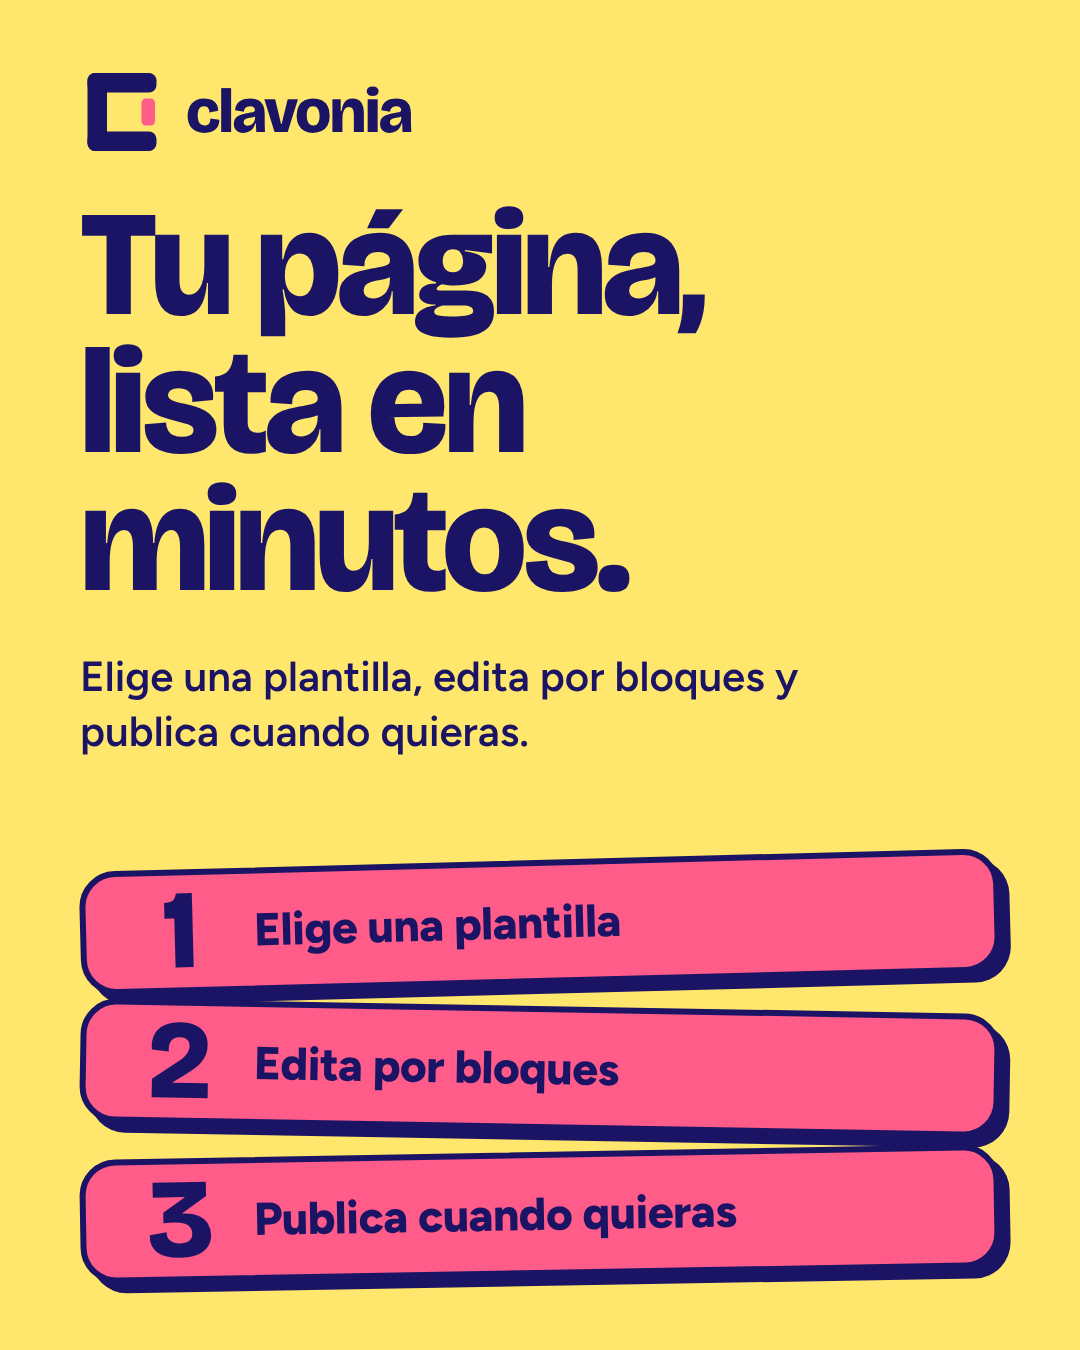
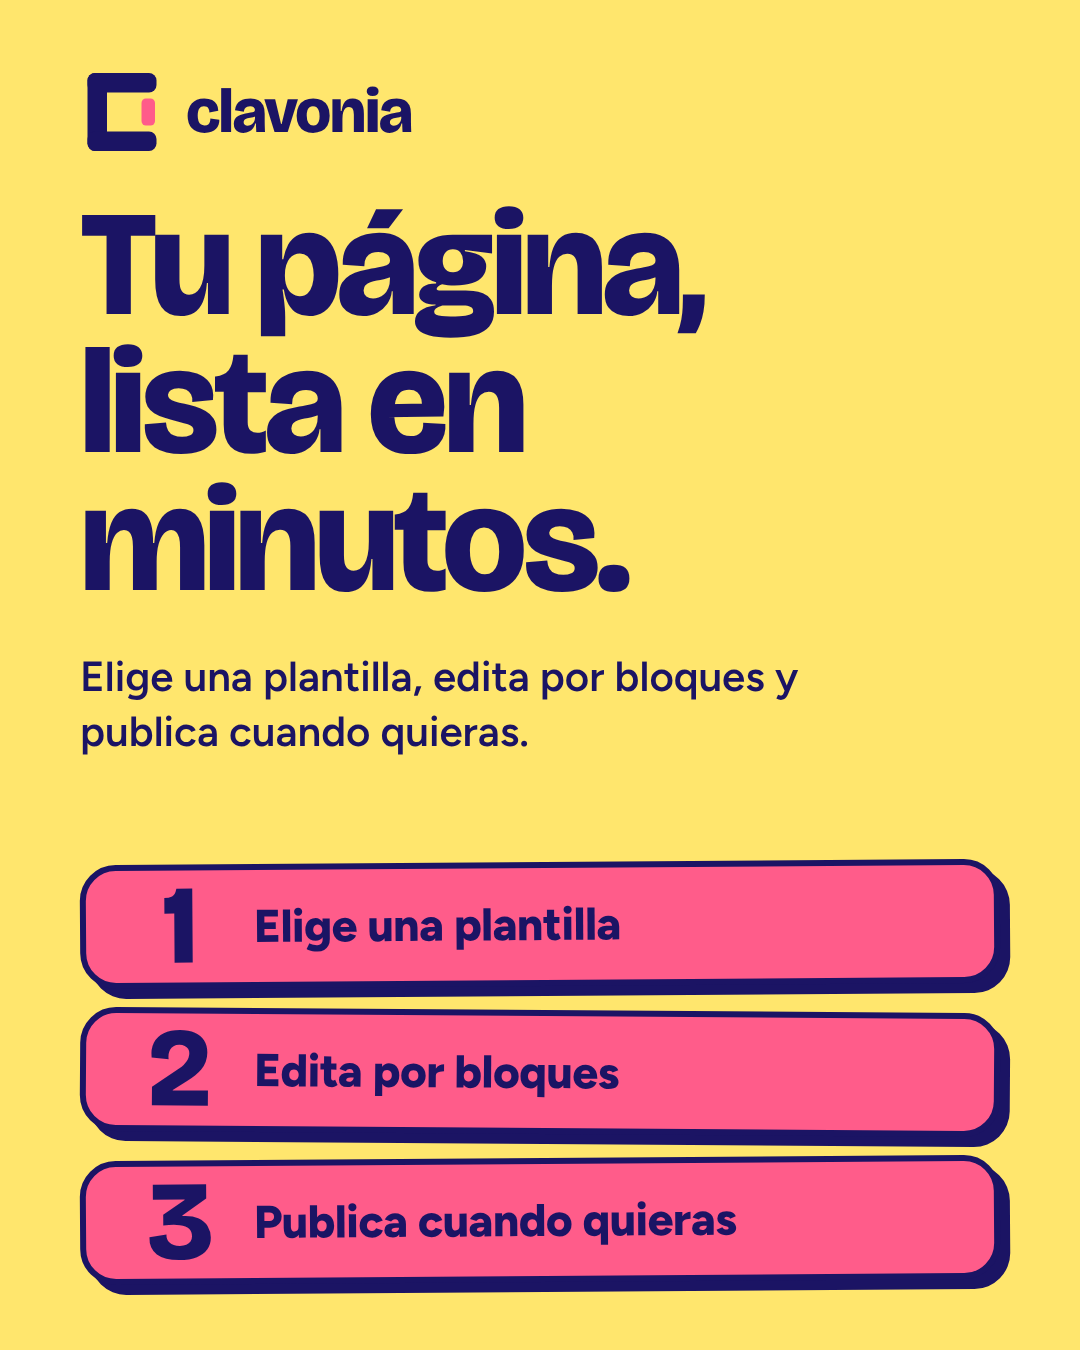
Add stickers-pop brand variant and finish papel-y-trazo files
Stickers variant with thick outlines, two-tone blocks and numbered steps,
using Bricolage Grotesque and Figtree: eight social pieces with HTML
sources, PNGs and README. Also includes the remaining papel-y-trazo files.

Claude-Session: https://claude.ai/code/session_013XA8P2WAmpXZJM5TfkydHJ

Changed region(s): [[0.0611, 0.6222, 0.9472, 0.9644], [0.0611, 0.6533, 0.0917, 0.6844]]

diff --git a/clavonia/brand/variants/papel-y-trazo/instagram-square-1080x1080.html b/clavonia/brand/variants/papel-y-trazo/instagram-square-1080x1080.html
@@ -13,8 +13,8 @@ body{background:#A7C4B5;width:1080px;height:1080px;overflow:hidden}
 .a{position:absolute}
 .grain{position:absolute;left:0;top:0;width:1080px;height:1080px;opacity:.09;mix-blend-mode:multiply;pointer-events:none;z-index:60}
 .hand{font-family:'Caveat',cursive;font-weight:700;color:#1D2B24}
-.ring{position:relative;display:inline-block;white-space:nowrap;padding:0 .14em}
-.ringsvg{position:absolute;left:-2%;top:-6%;width:104%;height:116%;overflow:visible}
+.ring{position:relative;display:inline-block;white-space:nowrap;padding:0 .24em}
+.ringsvg{position:absolute;left:-4%;top:-8%;width:108%;height:120%;overflow:visible}
 .lock{display:flex;align-items:center;gap:.2em;font-weight:700;letter-spacing:-.02em;line-height:1}
 .mk{display:block}
 h1{font-weight:800;letter-spacing:-.04em;line-height:1;white-space:nowrap}
@@ -35,9 +35,9 @@ h1{font-weight:800;letter-spacing:-.04em;line-height:1;white-space:nowrap}
 
   <h1 class="a" style="left:80px;top:236px;font-size:136px">Tu página,<br>lista en<br><span class="hand ring" style="font-size:1.25em;letter-spacing:0;line-height:1.1">minutos.<svg class="ringsvg" viewBox="0 0 600 200" preserveAspectRatio="none" aria-hidden="true"><path d="M30 104C20 40 150 16 300 18C450 20 590 46 578 104C566 166 430 186 290 182C150 178 16 160 28 98C34 60 110 34 230 26" fill="none" stroke="#1D2B24" stroke-width="5" stroke-linecap="round" vector-effect="non-scaling-stroke"/></svg></span></h1>
 
-  <p class="a" style="left:80px;top:700px;width:860px;font-size:40px;line-height:1.36">Elige una plantilla, edita por bloques y publica cuando quieras.</p>
+  <p class="a" style="left:80px;top:748px;width:860px;font-size:40px;line-height:1.36">Elige una plantilla, edita por bloques y publica cuando quieras.</p>
 
-  <div class="pill">Elige · Edita · Publica</div>
+  <div class="pill" style="top:932px">Elige · Edita · Publica</div>
 
   <svg class="grain" aria-hidden="true"><filter id="n"><feTurbulence type="fractalNoise" baseFrequency=".85" numOctaves="2" stitchTiles="stitch"/><feColorMatrix type="saturate" values="0"/></filter><rect width="100%" height="100%" filter="url(#n)"/></svg>
 </div>

diff --git a/clavonia/brand/variants/stickers-pop/instagram-post-1080x1350.html b/clavonia/brand/variants/stickers-pop/instagram-post-1080x1350.html
@@ -38,13 +38,13 @@ html,body{margin:0;background:#fff}
 
   <p class="abs" style="left:80px;top:650px;width:860px;font-size:42px;font-weight:600;line-height:1.3">Elige una plantilla, edita por bloques y publica cuando quieras.</p>
 
-  <div class="stk row" style="left:80px;top:860px;width:920px;height:124px;transform:rotate(-1.5deg)">
+  <div class="stk row" style="left:80px;top:862px;width:920px;height:124px;transform:rotate(-0.4deg)">
     <span class="display num">1</span><span class="step">Elige una plantilla</span>
   </div>
-  <div class="stk row" style="left:80px;top:1006px;width:920px;height:124px;transform:rotate(1deg)">
+  <div class="stk row" style="left:80px;top:1010px;width:920px;height:124px;transform:rotate(0.4deg)">
     <span class="display num">2</span><span class="step">Edita por bloques</span>
   </div>
-  <div class="stk row" style="left:80px;top:1152px;width:920px;height:124px;transform:rotate(-1deg)">
+  <div class="stk row" style="left:80px;top:1158px;width:920px;height:124px;transform:rotate(-0.4deg)">
     <span class="display num">3</span><span class="step">Publica cuando quieras</span>
   </div>
 </div>

diff --git a/clavonia/brand/variants/stickers-pop/highlight-2-1080x1080.html b/clavonia/brand/variants/stickers-pop/highlight-2-1080x1080.html
@@ -20,15 +20,15 @@ html,body{margin:0;background:#fff}
 </head>
 <body>
 <div class="root">
-  <h1 class="abs display" style="left:0;right:0;top:180px;text-align:center;font-size:124px">Cómo<br>funciona</h1>
+  <h1 class="abs display" style="left:0;right:0;top:225px;text-align:center;font-size:124px">Cómo<br>funciona</h1>
 
-  <div class="dot" style="left:190px">1</div>
-  <div class="dot" style="left:430px">2</div>
-  <div class="dot" style="left:670px">3</div>
+  <div class="dot" style="left:190px;top:535px">1</div>
+  <div class="dot" style="left:430px;top:535px">2</div>
+  <div class="dot" style="left:670px;top:535px">3</div>
 
-  <div class="label" style="left:170px">Elige</div>
-  <div class="label" style="left:410px">Edita</div>
-  <div class="label" style="left:650px">Publica</div>
+  <div class="label" style="left:170px;top:787px">Elige</div>
+  <div class="label" style="left:410px;top:787px">Edita</div>
+  <div class="label" style="left:650px;top:787px">Publica</div>
 </div>
 </body>
 </html>

diff --git a/clavonia/brand/variants/stickers-pop/facebook-cover-1640x624.html b/clavonia/brand/variants/stickers-pop/facebook-cover-1640x624.html
@@ -39,7 +39,7 @@ html,body{margin:0;background:#fff}
 
   <div class="abs" style="left:400px;top:128px;width:840px;text-align:center">
     <h1 class="display" style="font-size:96px">Tu página,<br>lista en<br><span class="tag" style="font-size:96px">minutos.</span></h1>
-    <p style="margin-top:30px;font-size:30px;font-weight:600;line-height:1.35">Elige una plantilla, edita por bloques y publica cuando quieras.</p>
+    <p style="margin-top:30px;font-size:30px;font-weight:600;line-height:1.35">Elige una plantilla, edita por bloques<br>y publica cuando quieras.</p>
   </div>
 
   <div class="mock" style="left:1218px;top:112px;width:336px;height:250px;transform:rotate(5deg);box-shadow:12px 12px 0 var(--pink)">

diff --git a/clavonia/brand/variants/stickers-pop/README.md b/clavonia/brand/variants/stickers-pop/README.md
@@ -1,0 +1,68 @@
+# Clavonia · Variante "Stickers Pop"
+
+Dirección: piezas sociales lúdicas y pensadas para compartir. Pegatinas con contorno grueso, ilustraciones a dos tintas de bloques de página y números grandes solo cuando hay una secuencia real.
+
+## Concepto
+
+- **Pegatina:** formas redondeadas con borde grueso de tinta y sombra desplazada sólida. Algunas se inclinan para dar energía.
+- **Dos tintas:** las ilustraciones son bloques de página (barra de navegación, héroe, tarjetas) en una tinta y un relleno de color. Sin fotos.
+- **Números:** solo en la secuencia "Elige, edita, publica" (post de Instagram, destacado "Cómo funciona").
+- **Logo:** la C de bloques se redibujó con esquinas más redondas. El cursor sigue siendo el acento de color. El nombre "clavonia" va en Bricolage Grotesque 800.
+- **Regla de color:** cada pieza usa como máximo tres colores: tinta y dos de la paleta.
+
+## Paleta
+
+| Nombre | Hex | Uso |
+|---|---|---|
+| Tinta | `#1B1464` | Texto, contornos, fondos oscuros |
+| Rosa pop | `#FF5C8A` | Pegatinas, cursor del logo, bloques destacados |
+| Amarillo mantequilla | `#FFE66D` | Fondos claros |
+| Menta | `#2BD4A3` | Bloques de acento sobre blanco |
+| Blanco | `#FFFFFF` | Texto sobre tinta, tarjetas |
+
+Contraste comprobado (texto pequeño y grande):
+
+- Tinta sobre blanco: 15.8:1
+- Tinta sobre amarillo: 11.6:1
+- Tinta sobre menta: 8.3:1
+- Tinta sobre rosa: 5.4:1 (válido para texto)
+- Rosa sobre tinta: 5.4:1 (solo texto grande o en negrita)
+- Blanco sobre rosa: 2.9:1, no se usa para texto
+
+## Tipografía
+
+- **Titulares y números:** Bricolage Grotesque, 700 a 800, interletra apretada.
+- **Texto:** Figtree, 500 a 800.
+- Ambas se cargan desde Google Fonts en cada HTML.
+
+## Reglas de uso
+
+1. Texto siempre en tinta sobre fondos claros, o en blanco / amarillo sobre tinta. Nunca blanco sobre rosa.
+2. Sin degradados, brillos ni sombras difusas. Solo relleno plano y sombra desplazada sólida.
+3. No estirar el logo ni cambiar sus colores. Dejar aire alrededor igual a un décimo de su ancho.
+4. Los números grandes solo sirven para pasos que van en orden.
+5. No añadir handle, dominio ni precios: no existen todavía. Las piezas usan solo el mensaje de lanzamiento.
+6. Historias: el texto clave queda entre 250 px del borde superior e inferior.
+7. Destacados: el contenido va dentro del círculo central; las esquinas se recortan en la app.
+8. Las piezas de Facebook se leen en móvil: el titular va al centro de la portada.
+
+## Archivos
+
+Cada pieza tiene su HTML fuente (mismo nombre) y su PNG renderizado al tamaño exacto.
+
+| Archivo | Medida | Uso |
+|---|---|---|
+| `avatar-1080x1080.png` | 1080 × 1080 | Foto de perfil (Instagram, Facebook) |
+| `facebook-cover-1640x624.png` | 1640 × 624 | Portada de Facebook |
+| `facebook-post-1200x630.png` | 1200 × 630 | Imagen de enlace compartido |
+| `instagram-post-1080x1350.png` | 1080 × 1350 | Post de feed (4:5) |
+| `instagram-square-1080x1080.png` | 1080 × 1080 | Mosaico del perfil |
+| `instagram-story-1080x1920.png` | 1080 × 1920 | Historia |
+| `highlight-1-1080x1080.png` | 1080 × 1080 | Destacado "Planes" |
+| `highlight-2-1080x1080.png` | 1080 × 1080 | Destacado "Cómo funciona" |
+
+Cada `.html` tiene un contenedor de medida fija. Para regenerar un PNG:
+
+```bash
+node /tmp/claude-0/e2e/shot.mjs file://$PWD/<nombre>.html $PWD/<nombre>.png <ancho> <alto>
+```
